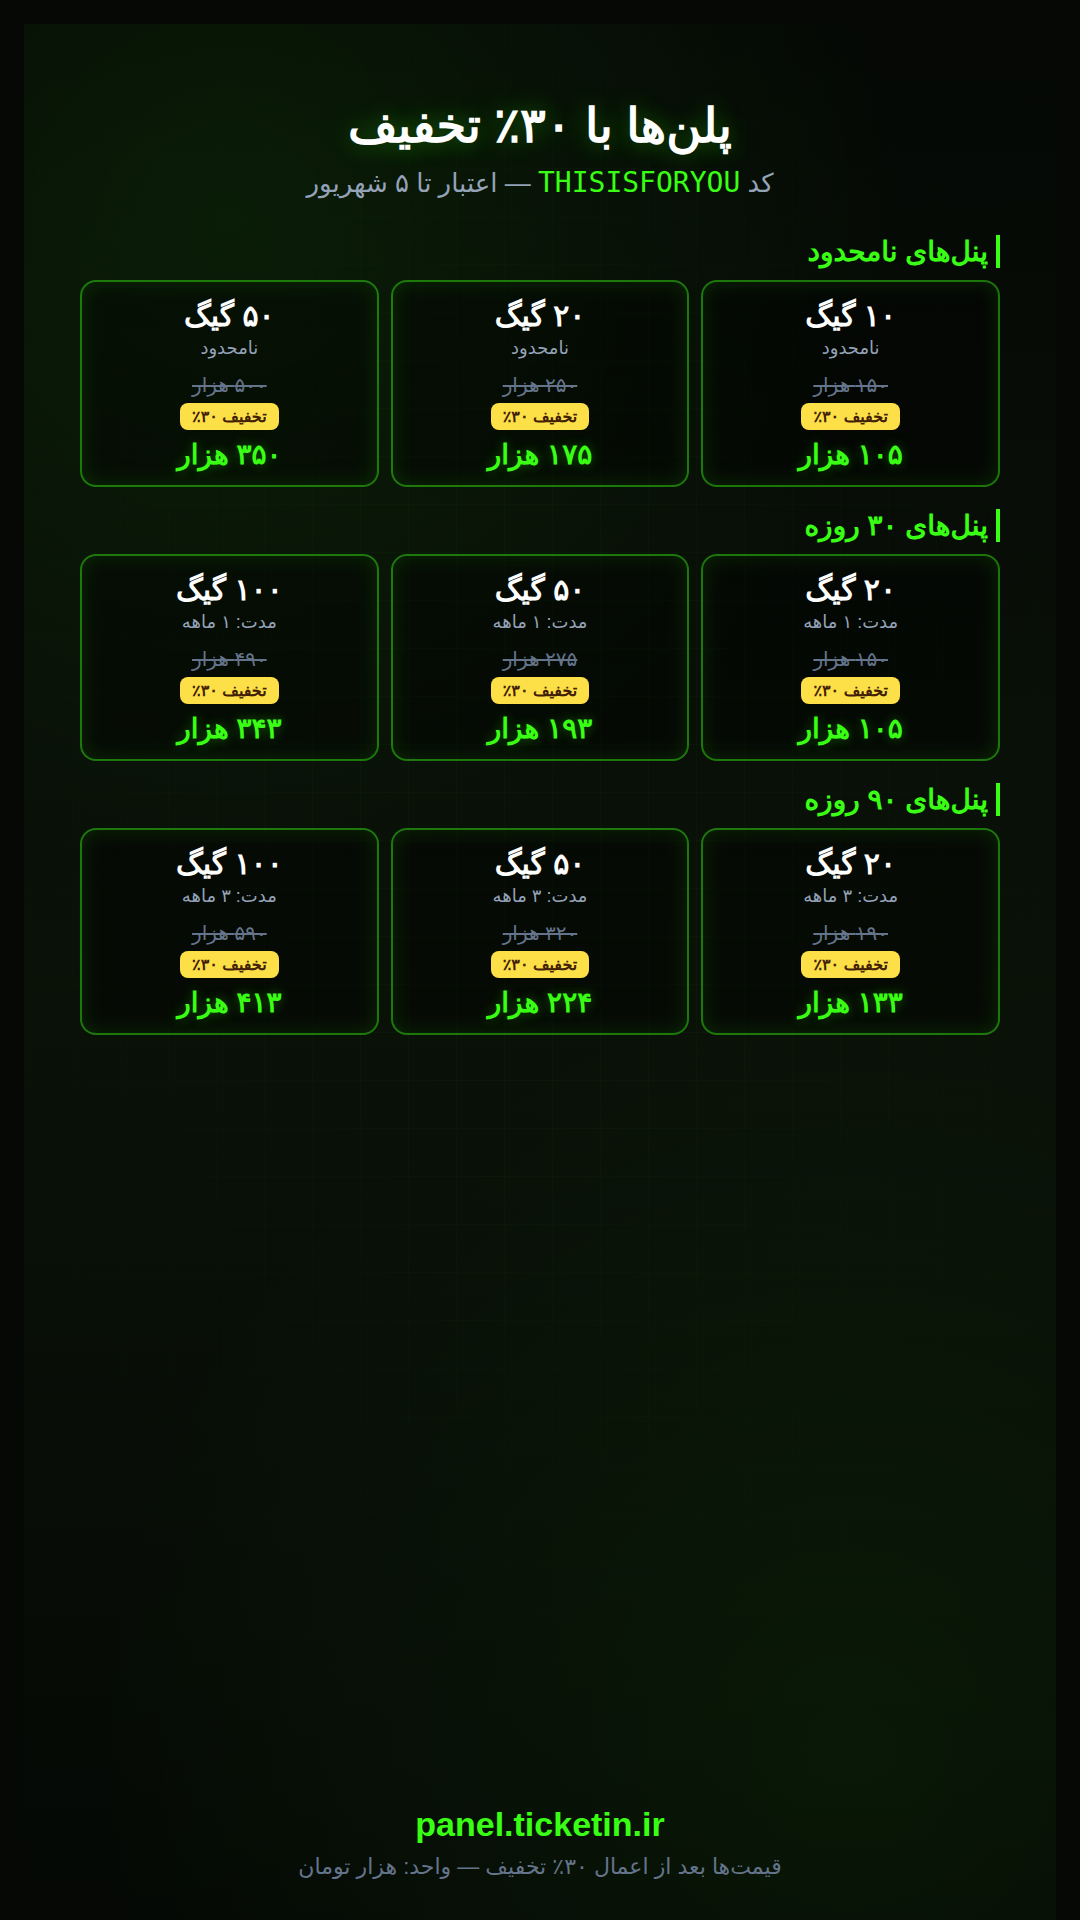
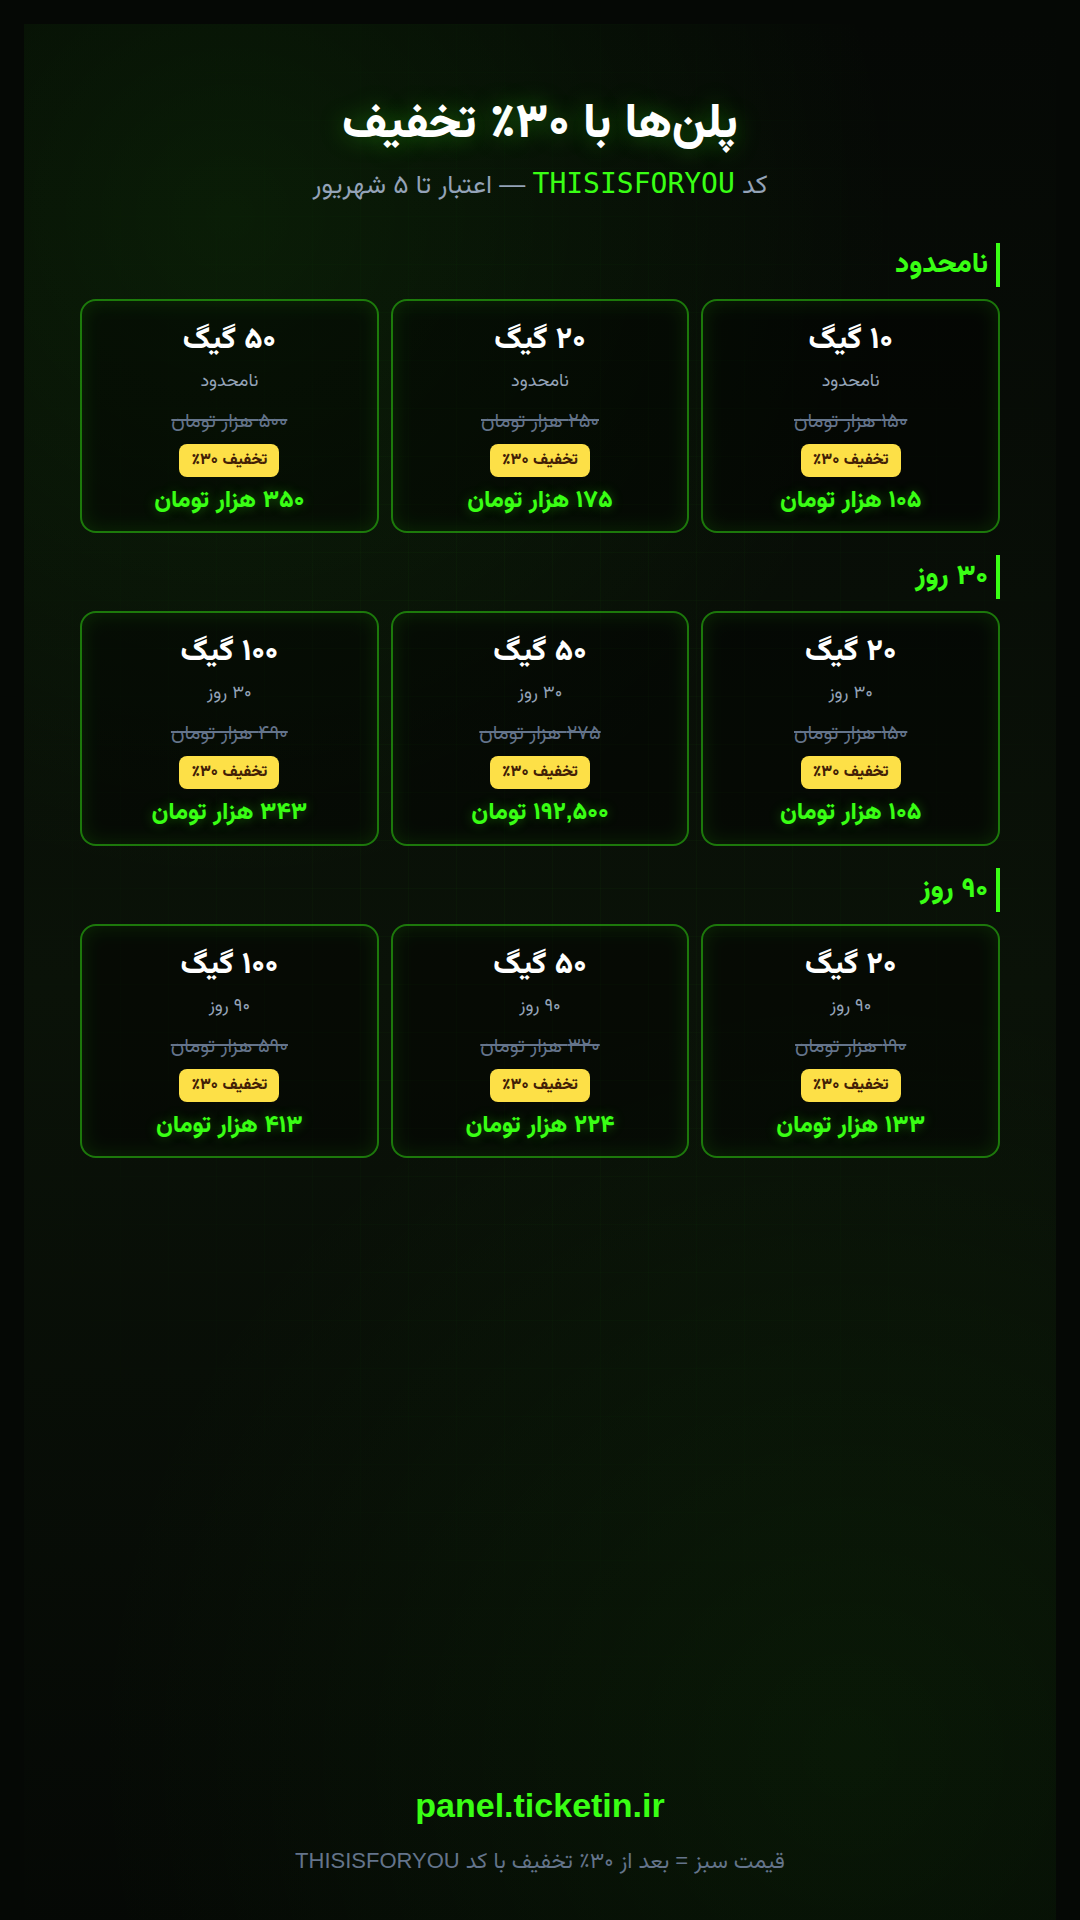
Fix poster plan prices: exact amounts and duration labels

diff --git a/banners/campaign-a-page2.html b/banners/campaign-a-page2.html
@@ -16,89 +16,89 @@
   </header>
 
   <div class="group">
-    <div class="groupTitle">پنلهای نامحدود</div>
+    <div class="groupTitle">نامحدود</div>
     <div class="planGrid">
       <div class="planCard">
         <div class="vol">۱۰ گیگ</div>
         <div class="dur">نامحدود</div>
-        <div class="old">۱۵۰ هزار</div>
+        <div class="old">۱۵۰ هزار تومان</div>
         <div class="badge">تخفیف ۳۰٪</div>
-        <div class="new">۱۰۵ هزار</div>
+        <div class="new">۱۰۵ هزار تومان</div>
       </div>
       <div class="planCard">
         <div class="vol">۲۰ گیگ</div>
         <div class="dur">نامحدود</div>
-        <div class="old">۲۵۰ هزار</div>
+        <div class="old">۲۵۰ هزار تومان</div>
         <div class="badge">تخفیف ۳۰٪</div>
-        <div class="new">۱۷۵ هزار</div>
+        <div class="new">۱۷۵ هزار تومان</div>
       </div>
       <div class="planCard">
         <div class="vol">۵۰ گیگ</div>
         <div class="dur">نامحدود</div>
-        <div class="old">۵۰۰ هزار</div>
+        <div class="old">۵۰۰ هزار تومان</div>
         <div class="badge">تخفیف ۳۰٪</div>
-        <div class="new">۳۵۰ هزار</div>
+        <div class="new">۳۵۰ هزار تومان</div>
       </div>
     </div>
   </div>
 
   <div class="group">
-    <div class="groupTitle">پنلهای ۳۰ روزه</div>
+    <div class="groupTitle">۳۰ روز</div>
     <div class="planGrid">
       <div class="planCard">
         <div class="vol">۲۰ گیگ</div>
-        <div class="dur">مدت: ۱ ماهه</div>
-        <div class="old">۱۵۰ هزار</div>
+        <div class="dur">۳۰ روز</div>
+        <div class="old">۱۵۰ هزار تومان</div>
         <div class="badge">تخفیف ۳۰٪</div>
-        <div class="new">۱۰۵ هزار</div>
+        <div class="new">۱۰۵ هزار تومان</div>
       </div>
       <div class="planCard">
         <div class="vol">۵۰ گیگ</div>
-        <div class="dur">مدت: ۱ ماهه</div>
-        <div class="old">۲۷۵ هزار</div>
+        <div class="dur">۳۰ روز</div>
+        <div class="old">۲۷۵ هزار تومان</div>
         <div class="badge">تخفیف ۳۰٪</div>
-        <div class="new">۱۹۳ هزار</div>
+        <div class="new">۱۹۲,۵۰۰ تومان</div>
       </div>
       <div class="planCard">
         <div class="vol">۱۰۰ گیگ</div>
-        <div class="dur">مدت: ۱ ماهه</div>
-        <div class="old">۴۹۰ هزار</div>
+        <div class="dur">۳۰ روز</div>
+        <div class="old">۴۹۰ هزار تومان</div>
         <div class="badge">تخفیف ۳۰٪</div>
-        <div class="new">۳۴۳ هزار</div>
+        <div class="new">۳۴۳ هزار تومان</div>
       </div>
     </div>
   </div>
 
   <div class="group">
-    <div class="groupTitle">پنلهای ۹۰ روزه</div>
+    <div class="groupTitle">۹۰ روز</div>
     <div class="planGrid">
       <div class="planCard">
         <div class="vol">۲۰ گیگ</div>
-        <div class="dur">مدت: ۳ ماهه</div>
-        <div class="old">۱۹۰ هزار</div>
+        <div class="dur">۹۰ روز</div>
+        <div class="old">۱۹۰ هزار تومان</div>
         <div class="badge">تخفیف ۳۰٪</div>
-        <div class="new">۱۳۳ هزار</div>
+        <div class="new">۱۳۳ هزار تومان</div>
       </div>
       <div class="planCard">
         <div class="vol">۵۰ گیگ</div>
-        <div class="dur">مدت: ۳ ماهه</div>
-        <div class="old">۳۲۰ هزار</div>
+        <div class="dur">۹۰ روز</div>
+        <div class="old">۳۲۰ هزار تومان</div>
         <div class="badge">تخفیف ۳۰٪</div>
-        <div class="new">۲۲۴ هزار</div>
+        <div class="new">۲۲۴ هزار تومان</div>
       </div>
       <div class="planCard">
         <div class="vol">۱۰۰ گیگ</div>
-        <div class="dur">مدت: ۳ ماهه</div>
-        <div class="old">۵۹۰ هزار</div>
+        <div class="dur">۹۰ روز</div>
+        <div class="old">۵۹۰ هزار تومان</div>
         <div class="badge">تخفیف ۳۰٪</div>
-        <div class="new">۴۱۳ هزار</div>
+        <div class="new">۴۱۳ هزار تومان</div>
       </div>
     </div>
   </div>
 
   <footer class="footer">
     <div class="url">panel.ticketin.ir</div>
-    <div class="note">قیمتها بعد از اعمال ۳۰٪ تخفیف — واحد: هزار تومان</div>
+    <div class="note">قیمت سبز = بعد از ۳۰٪ تخفیف با کد THISISFORYOU</div>
   </footer>
 </div>
 </div>

diff --git a/banners/campaign-poster.css b/banners/campaign-poster.css
@@ -178,8 +178,9 @@ body{background:#050805;display:flex;justify-content:center;padding:24px}
   font-size:16px;font-weight:800;margin-bottom:8px;
 }
 .planCard .new{
-  font-size:28px;font-weight:800;color:var(--green);
+  font-size:24px;font-weight:800;color:var(--green);
   text-shadow:0 0 12px var(--green-glow);
+  line-height:1.35;
 }
 .page2 .footer{
   margin-top:auto;text-align:center;padding-top:16px;
